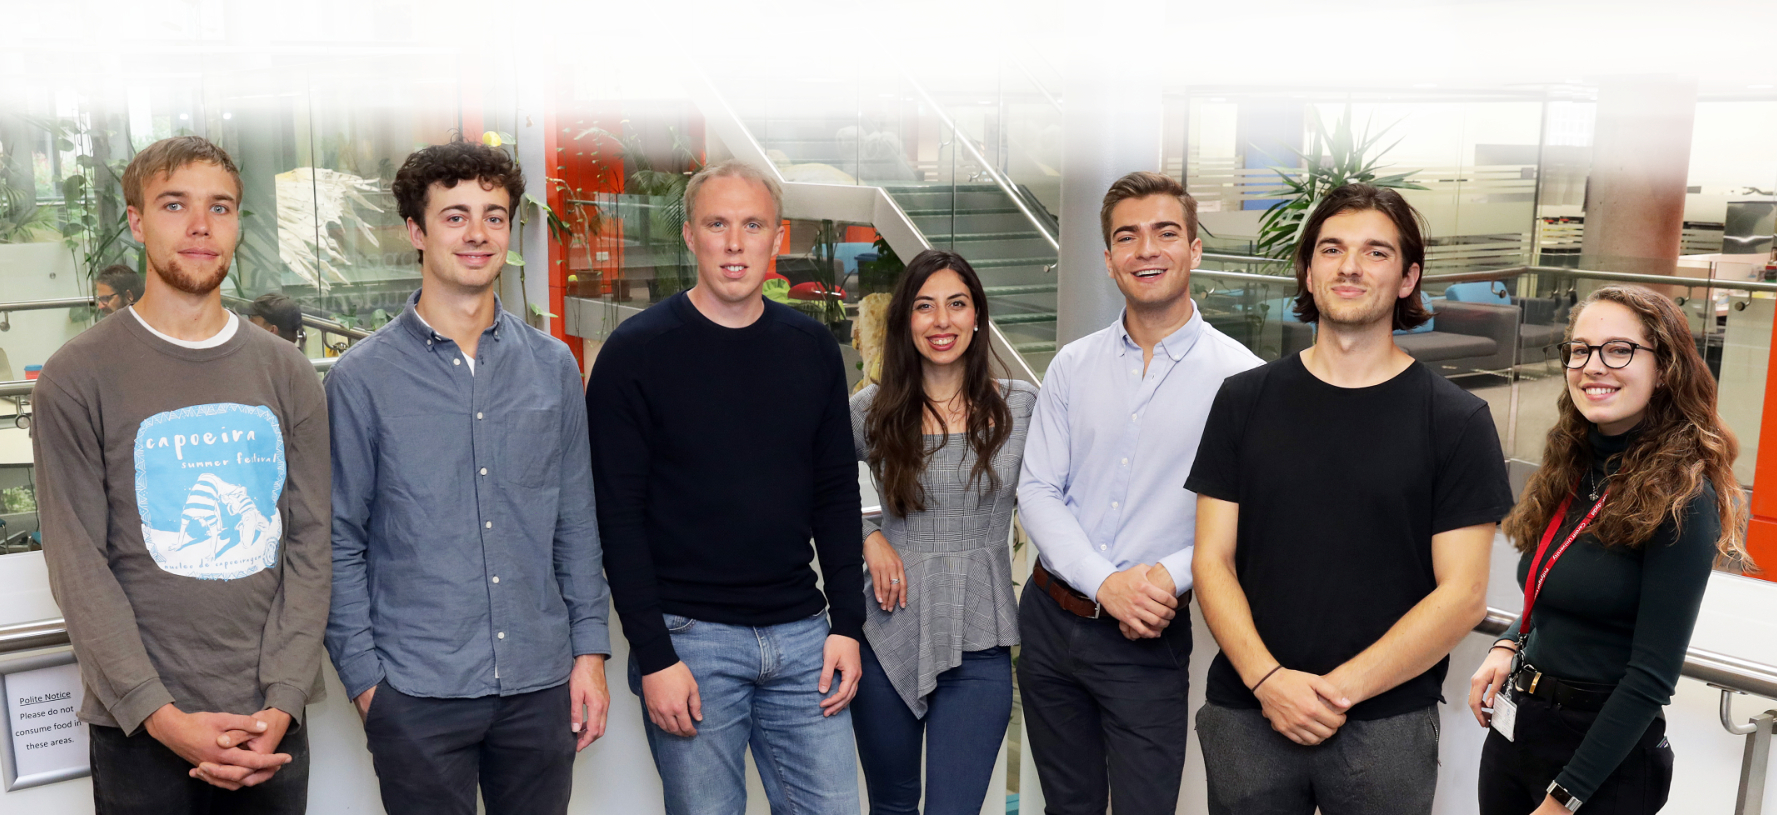
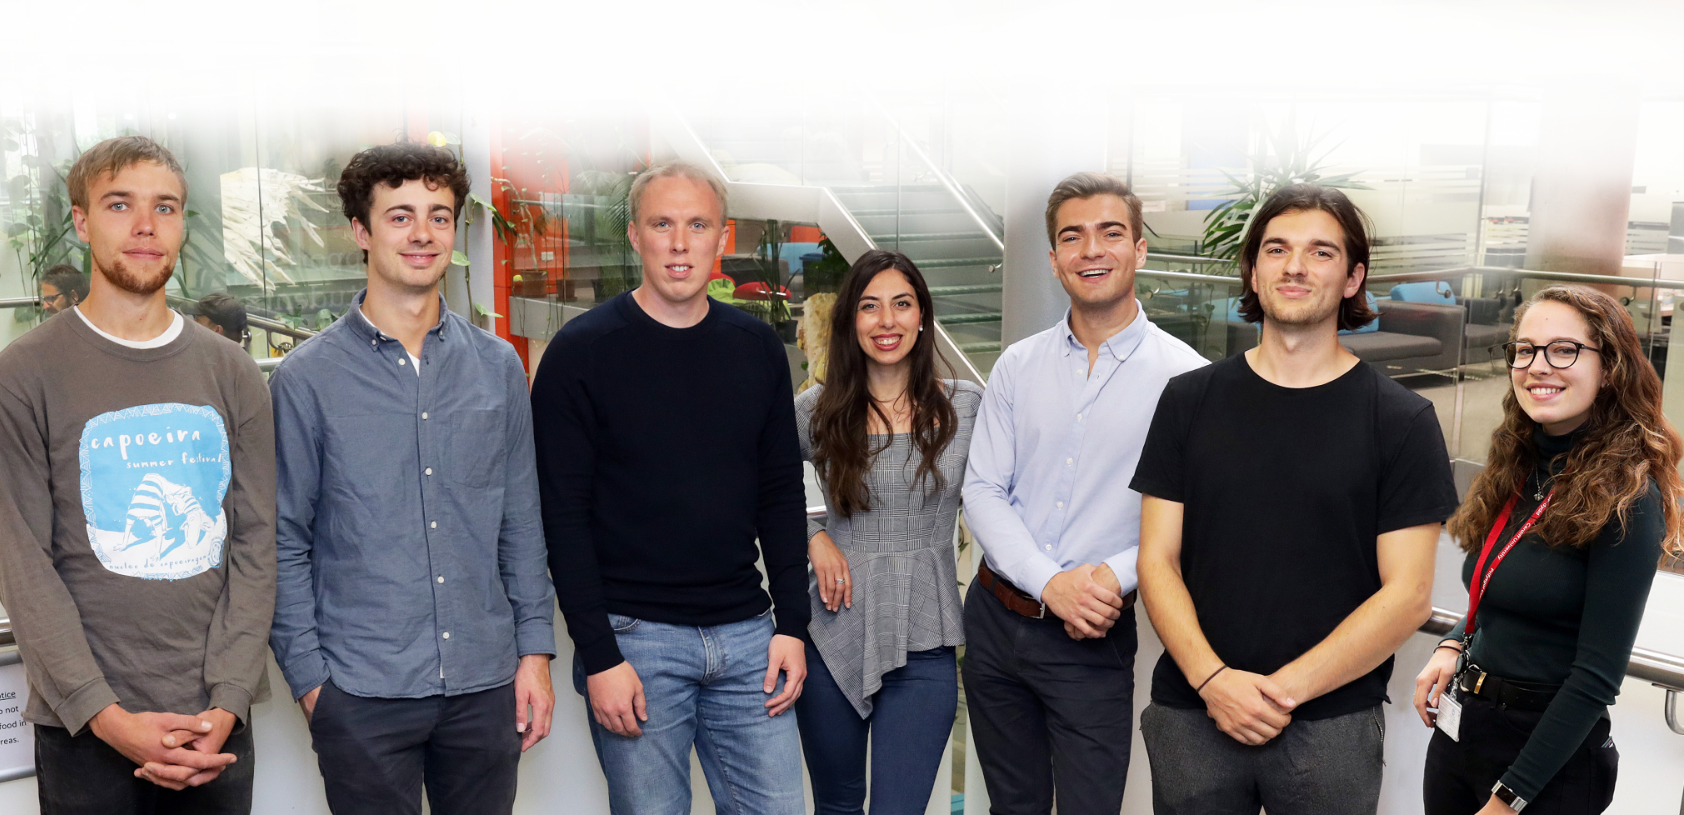
Group shot updates

diff --git a/team.html b/team.html
@@ -85,6 +85,21 @@ section: team
           <!-- START GALLERY ITEM -->
           <div class="gallery-item col-sm-6 col-xs-12 inner left no-padding hover-zoom">
             <div class="inner bottom-left bottom-right padding-30">
+              <h5 class="block-title text-white no-margin">Group Photo 2019</h5>
+              <p class="font-arial fs-11 text-white muted m-t-5 m-b-0">Life Sciences Building, Bristol, UK</p>
+            </div>
+            <a href="{{baseurl}}/images/photos/2018_retreat.jpg">
+            <div class="ar-2-1">
+              <div data-pages-bg-image="{{baseurl}}/images/photos/2019_group.jpg" data-bg-overlay="black" data-overlay-opacity="0.4">
+              </div>
+            </div>
+            </a>
+          </div>
+          <!-- END GALLERY ITEM -->
+
+          <!-- START GALLERY ITEM -->
+          <div class="gallery-item col-sm-6 col-xs-12 inner left no-padding hover-zoom">
+            <div class="inner bottom-left bottom-right padding-30">
               <h5 class="block-title text-white no-margin">Lab Retreat 2018</h5>
               <p class="font-arial fs-11 text-white muted m-t-5 m-b-0">Brecon Beacons, Wales</p>
             </div>
